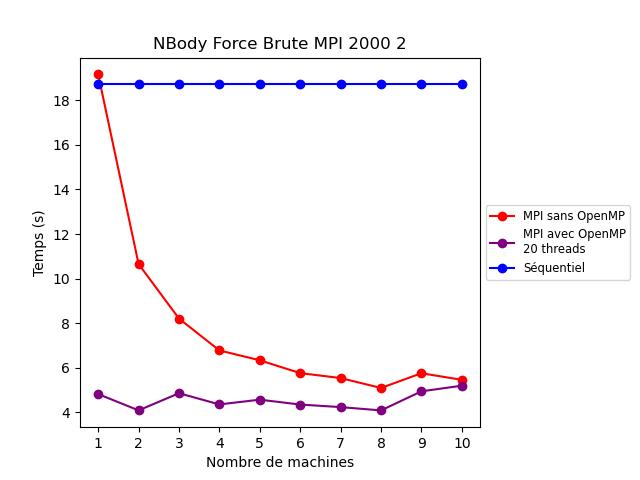
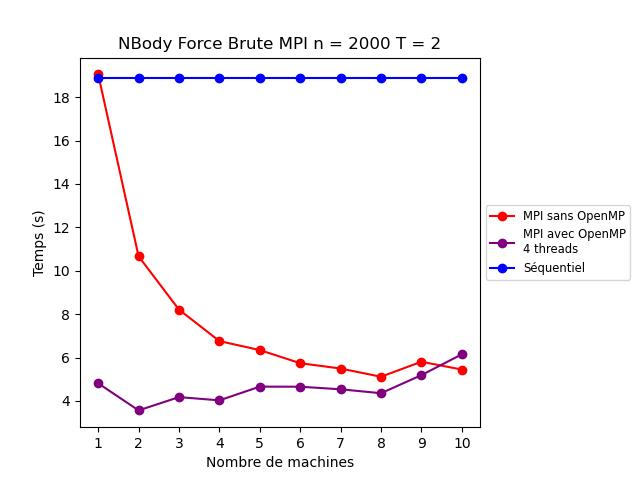
statistics and graphs

diff --git a/statistics.py b/statistics.py
@@ -58,7 +58,7 @@ def openmp_graph(n, nb_particles, T_FINAL):
 
     plt.xlabel('Nb de threads')
     plt.ylabel('Temps (s)')
-    plt.title(f'NBody Force Brute OpenMP {nb_particles} {T_FINAL}')
+    plt.title(f'NBody Force Brute OpenMP n = {nb_particles} T = {T_FINAL}')
     plt.legend(loc='center left', bbox_to_anchor=(1, 0.5), fontsize='small')
     plt.subplots_adjust(right=0.82)
 
@@ -102,7 +102,7 @@ def mpi_graph(n, openmp_n, nb_particles, T_FINAL):
     x = list(range(1, len(data_1) + 1))
 
     plt.plot(x, data_1, marker='o', linestyle='-', label='MPI sans OpenMP', color='red')
-    plt.plot(x, data_n, marker='o', linestyle='-', label='MPI avec OpenMP\n20 threads', color='purple')
+    plt.plot(x, data_n, marker='o', linestyle='-', label=f'MPI avec OpenMP\n{openmp_n} threads', color='purple')
     plt.plot(x, data_sequentiel, marker='o', linestyle='-', label='Séquentiel', color='blue')
 
     # Définissez les graduations personnalisées pour les axes x et y
@@ -112,7 +112,7 @@ def mpi_graph(n, openmp_n, nb_particles, T_FINAL):
 
     plt.xlabel("Nombre de machines")
     plt.ylabel('Temps (s)')
-    plt.title(f'NBody Force Brute MPI {nb_particles} {T_FINAL}')
+    plt.title(f'NBody Force Brute MPI n = {nb_particles} T = {T_FINAL}')
     plt.legend(loc='center left', bbox_to_anchor=(1, 0.5), fontsize='small')
     plt.subplots_adjust(right=0.75)
 
@@ -124,7 +124,7 @@ def sequential_args(nb_particles, T_FINAL):
     return [f'{FILEPATH}/sequential/nbody_brute_force', str(nb_particles), str(T_FINAL)]
 
 
-def bar_graph():
+def bar_graph(coeur):
     title = "NBody Force Brute accélération des 3 méthodes"
     values = [(1000, 2), (2000, 2), (1000, 5), (1000, 10), (5000, 1)]
 
@@ -140,7 +140,7 @@ def bar_graph():
 
         data_sequential.append((sequential_time/sequential_time) * 100)
         data_openmp.append((get_duration(openmp_args(nb_particles, T_FINAL, n))/sequential_time) * 100)
-        data_mpi.append((get_duration(mpi_args(nb_particles, T_FINAL, n, 20))/sequential_time) * 100)
+        data_mpi.append((get_duration(mpi_args(nb_particles, T_FINAL, n, coeur))/sequential_time) * 100)
         data_cuda[i] = data_cuda[i]/sequential_time * 100
 
         legende.append(f"({nb_particles}, {T_FINAL})")
@@ -170,7 +170,7 @@ def bar_graph():
     plt.clf()
 
 
-def evolution_t_graph(nb_particles):
+def evolution_t_graph(nb_particles, coeur):
     title = f"NBody Force Brute les 3 méthodes avec n_particle = {nb_particles}"
 
     data_sequential = []
@@ -185,7 +185,7 @@ def evolution_t_graph(nb_particles):
 
         data_sequential.append(sequential_time)
         data_openmp.append(get_duration(openmp_args(nb_particles, T_FINAL, n)))
-        data_mpi.append(get_duration(mpi_args(nb_particles, T_FINAL, n, 20)))
+        data_mpi.append(get_duration(mpi_args(nb_particles, T_FINAL, n, coeur)))
         data_cuda[t-1] = data_cuda[t-1]
 
     # Créez le graphique en barres
@@ -206,7 +206,7 @@ def evolution_t_graph(nb_particles):
     plt.clf()
 
 
-def evolution_nb_particles_graph(T_FINAL):
+def evolution_nb_particles_graph(T_FINAL, coeur):
     title = f"NBody Force Brute les 3 méthodes avec T_FINAL = {T_FINAL}"
 
     data_sequential = []
@@ -219,7 +219,7 @@ def evolution_nb_particles_graph(T_FINAL):
         sequential_time = get_duration(sequential_args(nb_particles, T_FINAL))
         data_sequential.append(sequential_time)
         data_openmp.append(get_duration(openmp_args(nb_particles, T_FINAL, n)))
-        data_mpi.append(get_duration(mpi_args(nb_particles, T_FINAL, n, 20)))
+        data_mpi.append(get_duration(mpi_args(nb_particles, T_FINAL, n, coeur)))
         data_cuda[(nb_particles//1000)-1] = data_cuda[(nb_particles//1000)-1]
 
     # Créez le graphique en barres
@@ -240,12 +240,13 @@ def evolution_nb_particles_graph(T_FINAL):
     plt.clf()
 
 
-n = 10
+host = 10
+coeur = os.cpu_count()
 number_particles = 2000
 time = 2
 
-mpi_graph(n, 20, number_particles, time)
-openmp_graph(n, number_particles, time)
-# evolution_t_graph(1000)
-# evolution_nb_particles_graph(2)
-# bar_graph()
+mpi_graph(host, coeur, number_particles, time)
+openmp_graph(coeur, number_particles, time)
+evolution_t_graph(1000, coeur)
+evolution_nb_particles_graph(2, coeur)
+bar_graph(coeur)
